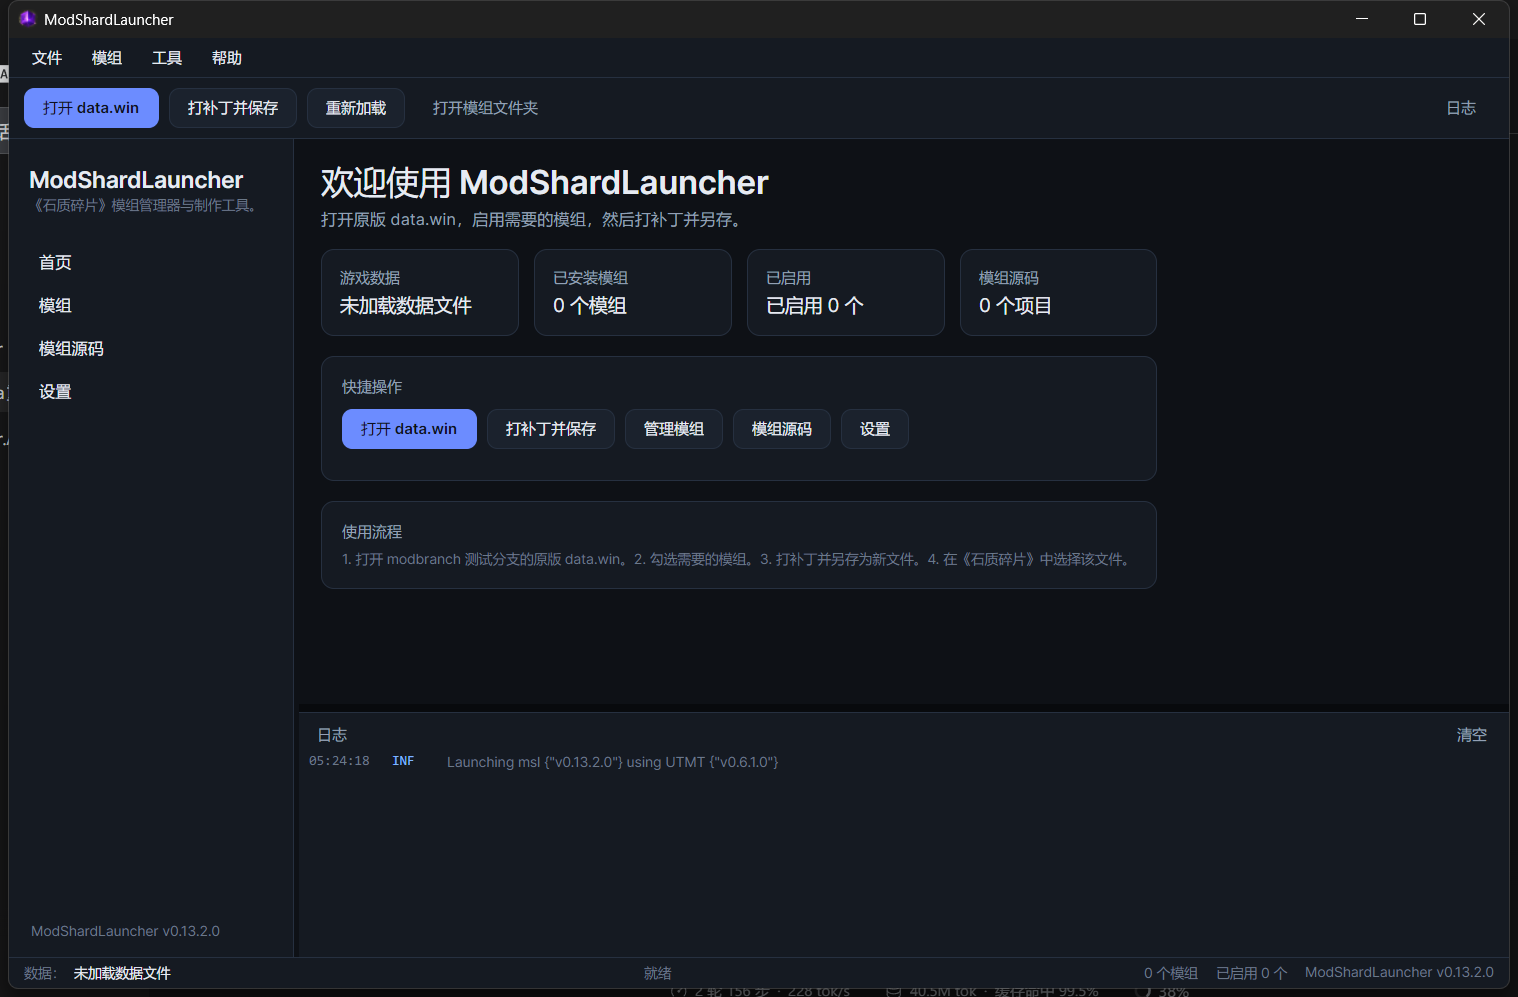
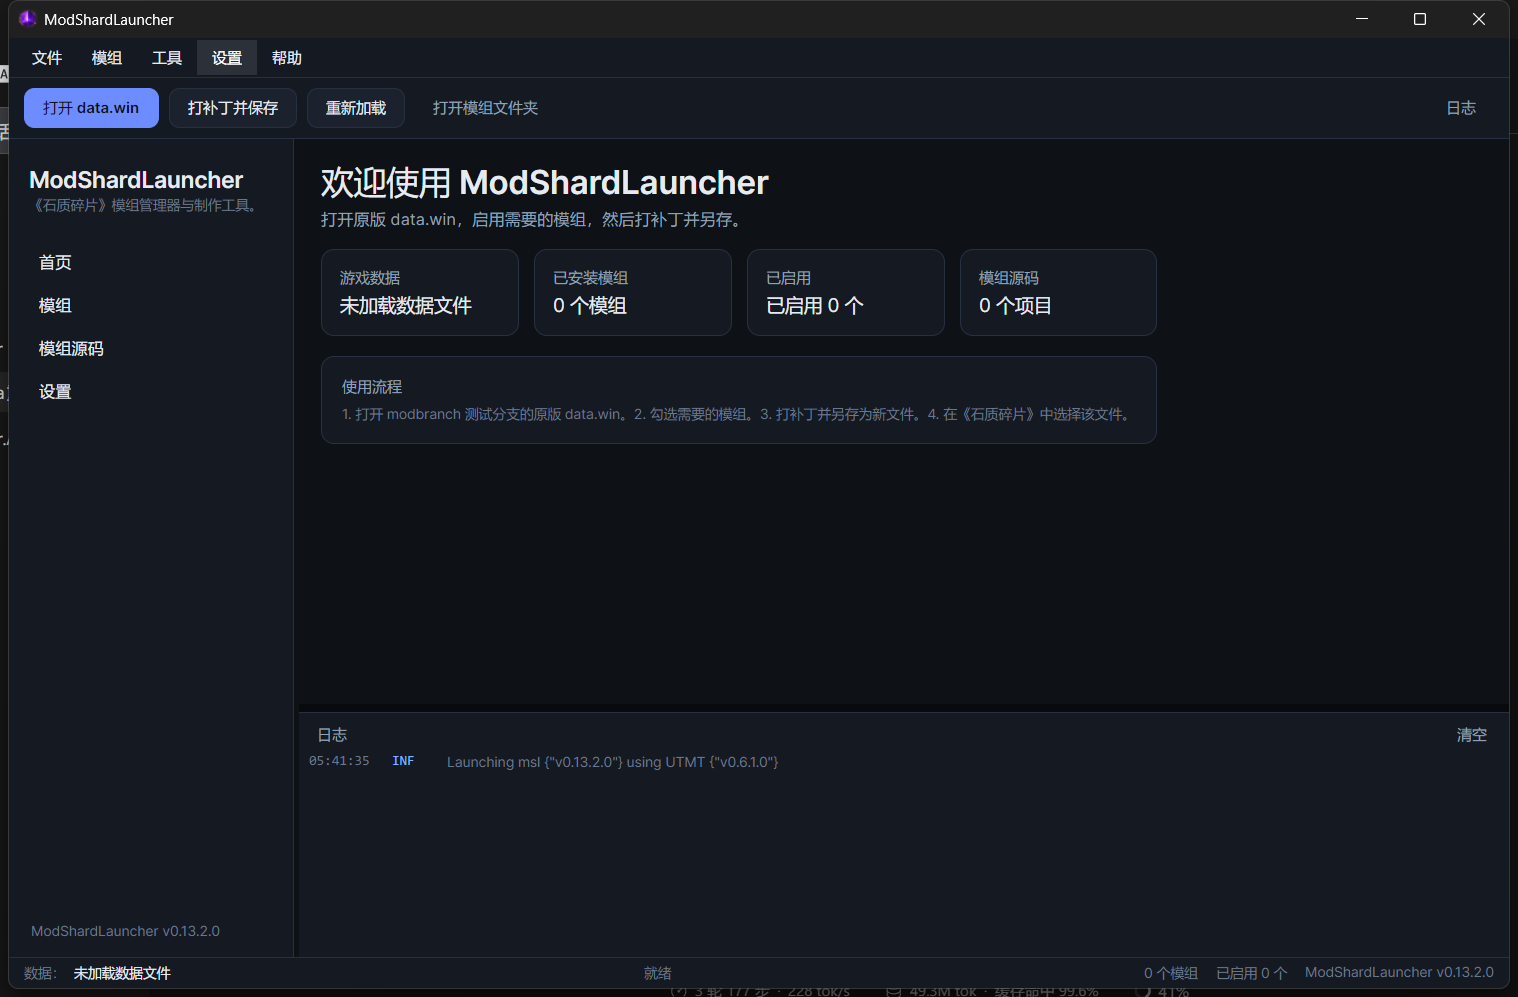
UI: move settings into the top menu and default the open dialog to the Steam install
- add a top level Settings entry left of Help (navigates to the settings page)
- remove the quick actions card from the home page and drop its unused resources
- start the open-file picker in the Stoneshard Steam folder, falling back to the work directory
- refresh the README screenshot and document the new default location

diff --git a/src/ModShardLauncher.Desktop/Services/DialogService.cs b/src/ModShardLauncher.Desktop/Services/DialogService.cs
@@ -9,6 +9,9 @@ namespace ModShardLauncher.Desktop.Services;
 /// <summary>All window/file interactions the view models are allowed to perform.</summary>
 public sealed class DialogService
 {
+    /// <summary>Default Steam installation folder for Stoneshard, used as the picker's start location.</summary>
+    private const string StoneshardSteamFolder = @"C:\Program Files (x86)\Steam\steamapps\common\Stoneshard";
+
     private Window? _owner;
 
     public void Attach(Window owner) => _owner = owner;
@@ -25,9 +28,39 @@ public sealed class DialogService
             Title = LocalizationService.Instance["MenuOpenData"],
             AllowMultiple = false,
             FileTypeFilter = DataFileTypes,
+            SuggestedStartLocation = await ResolveInitialFolderAsync(),
         });
 
         return files.Count > 0 ? files[0].TryGetLocalPath() : null;
+    }
+
+    /// <summary>
+    /// Prefers the default Steam install of Stoneshard; when that folder does not exist the
+    /// portable working directory is used instead.
+    /// </summary>
+    private async Task<IStorageFolder?> ResolveInitialFolderAsync()
+    {
+        if (_owner is null)
+        {
+            return null;
+        }
+
+        string[] candidates = [StoneshardSteamFolder, AppPaths.BaseDirectory];
+        foreach (string candidate in candidates)
+        {
+            if (!Directory.Exists(candidate))
+            {
+                continue;
+            }
+
+            IStorageFolder? folder = await _owner.StorageProvider.TryGetFolderFromPathAsync(candidate);
+            if (folder is not null)
+            {
+                return folder;
+            }
+        }
+
+        return null;
     }
 
     public async Task<string?> PickSaveDataFileAsync()

diff --git a/README.md b/README.md
@@ -7,6 +7,7 @@
 ## 功能
 
 - 打开原版 `data.win`，扫描 `Mods/*.sml`，启用/禁用模组，打补丁并另存为新文件。
+- 打开数据文件时，选择器默认定位到 Steam 安装目录 `C:\Program Files (x86)\Steam\steamapps\common\Stoneshard`；该目录不存在时回退到当前工作目录。
 - 在 `ModSources/` 中编译 C# 模组工程为 `.sml`（运行时 Roslyn，保留原有流程）。
 - 完整保留 `Msl` modding API（命名空间、类型、方法签名不变，已发布模组仍可加载）。
 - 现代 IDE 风格界面：顶部菜单 + 工具栏 + 左侧导航 + 底部实时日志 + 状态栏。
